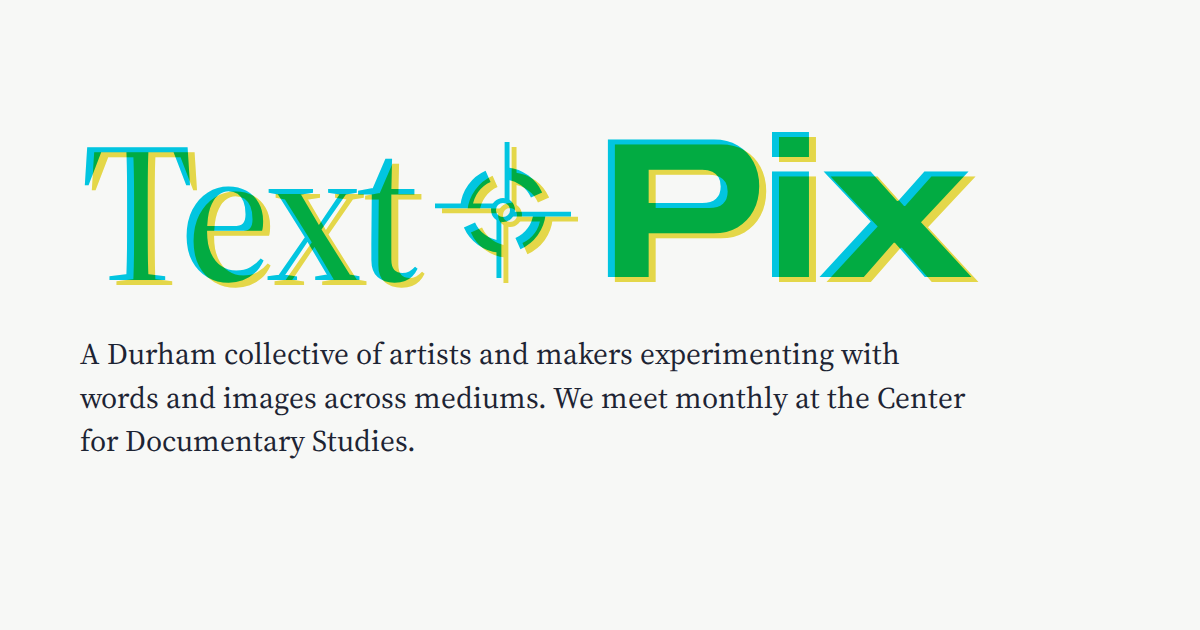
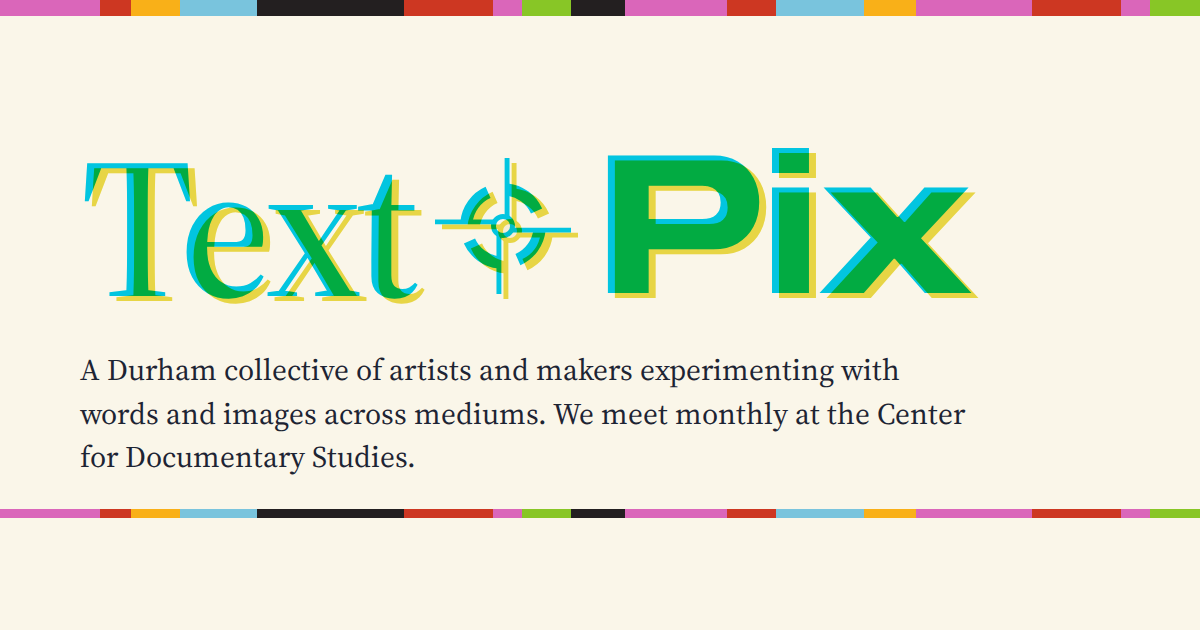
Flyer cues: cream paper, color bar, red dates, credit line, About cut-out letters
Takes cues from Laura Williams's Fall 2026 flyer while keeping the Riso
wordmark: cream background, the multicolor bar at top and above the footer,
brick-red event months, 'text+pix collective / an English + MFA|EDA
gathering' in the footer, snacks+refreshments on Events, and a band of
cut-out letters spelling TEXT+PIX COLLECTIVE on the About page.

Claude-Session: https://claude.ai/code/session_01TgvKXB1frhsYU7VnNqzR25

diff --git a/src/assets/style.css b/src/assets/style.css
@@ -1,12 +1,16 @@
-/* Text + Pix — the zine's Riso inks (Aqua and Light Lime) on paper.
+/* Text + Pix — the zine's Riso inks (Aqua and Light Lime) on paper,
+   with cream paper, brick red and the color bar from Laura Williams's
+   Fall 2026 flyer.
    Aqua and lime are display inks only: too light for small text.
    Text accents, links and buttons use --deep, a dark aqua.
    Change the colors here and the whole site follows. */
 :root {
-  --paper: #f7f8f6;
+  --paper: #faf6e9;     /* flyer cream */
   --ink: #1d2433;
   --muted: #59606e;
-  --rule: #d3d7dd;
+  --rule: #ddd5c2;
+  --red: #cc3420;       /* flyer brick red */
+  --cutout-band: #242021;
   /* Riso inks from measured L*a*b* (D65), converted to sRGB:
      Aqua L73 a-31 b-25; Light Lime L87 a-11 b70. */
   --aqua: #02c5e0;
@@ -35,6 +39,8 @@
     --ink: #e7e9ef;
     --muted: #a3a9b6;
     --rule: #333847;
+    --red: #ff8a70;
+    --cutout-band: #0c0d12;
     --aqua: #02c5e0;
     --lime: #ecdd4b;
     --deep: #7fd3e6;
@@ -43,7 +49,7 @@
   }
 }
 :root[data-theme="dark"] {
-  --paper: #151821; --ink: #e7e9ef; --muted: #a3a9b6; --rule: #333847;
+  --paper: #151821; --ink: #e7e9ef; --muted: #a3a9b6; --rule: #333847; --red: #ff8a70; --cutout-band: #0c0d12;
   --aqua: #02c5e0; --lime: #ecdd4b; --deep: #7fd3e6; --link: #7fd3e6; --field: #1d212c;
 }
 
@@ -136,7 +142,7 @@ main { padding: 0 var(--gutter) 4rem; }
   gap: 0 2rem; padding: 1.75rem 0; border-top: 1px solid var(--rule);
 }
 .event-date { margin: 0; font-family: var(--sans); line-height: 1; }
-.event-month { display: block; font-size: 3.25rem; font-weight: 800; font-stretch: 125%; color: var(--deep); letter-spacing: -0.02em; }
+.event-month { display: block; font-size: 3.25rem; font-weight: 800; font-stretch: 125%; color: var(--red); letter-spacing: -0.02em; }
 .event-day { display: block; margin-top: 0.35rem; font-size: var(--step-1); font-weight: 600; }
 .event-year { display: block; margin-top: 0.3rem; font-size: 0.875rem; color: var(--muted); }
 .event-body { max-width: var(--measure); }
@@ -179,7 +185,7 @@ main { padding: 0 var(--gutter) 4rem; }
 /* Footer -------------------------------------------------------------- */
 .site-footer {
   display: grid; grid-template-columns: minmax(0, 2fr) minmax(0, 1fr); gap: 2rem 4rem;
-  padding: 3rem var(--gutter); border-top: 4px solid var(--aqua);
+  padding: 3rem var(--gutter);
 }
 .join h2 { font-size: var(--step-2); }
 .join > p { max-width: 30rem; }
@@ -208,3 +214,41 @@ main { padding: 0 var(--gutter) 4rem; }
 .brand .mark .mark-ring { stroke-width: 11; }
 .brand .mark .mark-hair { stroke-width: 6; }
 .brand .mark { width: 1em; height: 1em; }
+
+/* Flyer color bar ---------------------------------------------------- */
+.ink-bar { height: 0.75rem; background: linear-gradient(90deg, #da66ba 0.0% 8.3%, #cd3722 8.3% 10.9%, #f9b018 10.9% 15.0%, #79c4dd 15.0% 21.4%, #231f20 21.4% 33.7%, #cd3722 33.7% 41.1%, #da66ba 41.1% 43.5%, #88c626 43.5% 47.6%, #231f20 47.6% 52.1%, #da66ba 52.1% 60.6%, #cd3722 60.6% 64.7%, #79c4dd 64.7% 72.0%, #f9b018 72.0% 76.3%, #da66ba 76.3% 86.0%, #cd3722 86.0% 93.4%, #da66ba 93.4% 95.8%, #88c626 95.8% 100.0%); }
+@media (min-width: 48rem) { .ink-bar { height: 1rem; } }
+
+.site-footer-wrap > .ink-bar { height: 0.6rem; }
+.footer-credit { font-family: var(--sans); font-size: var(--step--1); color: var(--muted); margin-top: -0.4rem; }
+.footer-name { font-family: var(--sans); font-weight: 700; margin-bottom: 0.2rem; }
+
+/* About: cut-out letters, after the flyer -------------------------- */
+.about-grid { display: grid; grid-template-columns: minmax(0, var(--measure)) max-content; justify-content: start; gap: 0 clamp(2.5rem, 9vw, 8rem); align-items: start; }
+.about-grid .page-head, .about-grid .prose { grid-column: 1; }
+.cutout {
+  grid-column: 2; grid-row: 1 / span 2;
+  justify-self: start; width: max-content;
+  margin: clamp(2rem, 6vw, 4rem) 0 0; padding: 1.4rem 1rem 1.6rem;
+  background: var(--cutout-band);
+  display: flex; flex-direction: column; align-items: center; gap: 0.3rem;
+}
+.cutout .word { display: flex; flex-direction: column; align-items: center; gap: 0.3rem; }
+.cutout .word + .word { margin-top: 1.1rem; }
+.cutout .tile {
+  display: grid; place-items: center; width: 2.2rem; height: 2.8rem;
+  font: 600 2.1rem/1 var(--sans); font-stretch: 62%; color: #fff;
+  background: var(--tone); transform: rotate(var(--tilt));
+  clip-path: var(--shape);
+}
+@media (max-width: 48rem) {
+  .about-grid { grid-template-columns: minmax(0, 1fr); }
+  .cutout {
+    grid-column: 1; grid-row: 2; position: static; margin: 0 0 2rem; width: auto; justify-self: stretch;
+    flex-direction: row; flex-wrap: wrap; justify-content: center; gap: 0.6rem 1.2rem; padding: 0.9rem;
+  }
+  .cutout .word { flex-direction: row; gap: 0.2rem; }
+  .cutout .word + .word { margin-top: 0; }
+  .cutout .tile { width: 1.55rem; height: 1.9rem; font-size: 1.45rem; }
+  .about-grid .prose { grid-row: 3; }
+}
